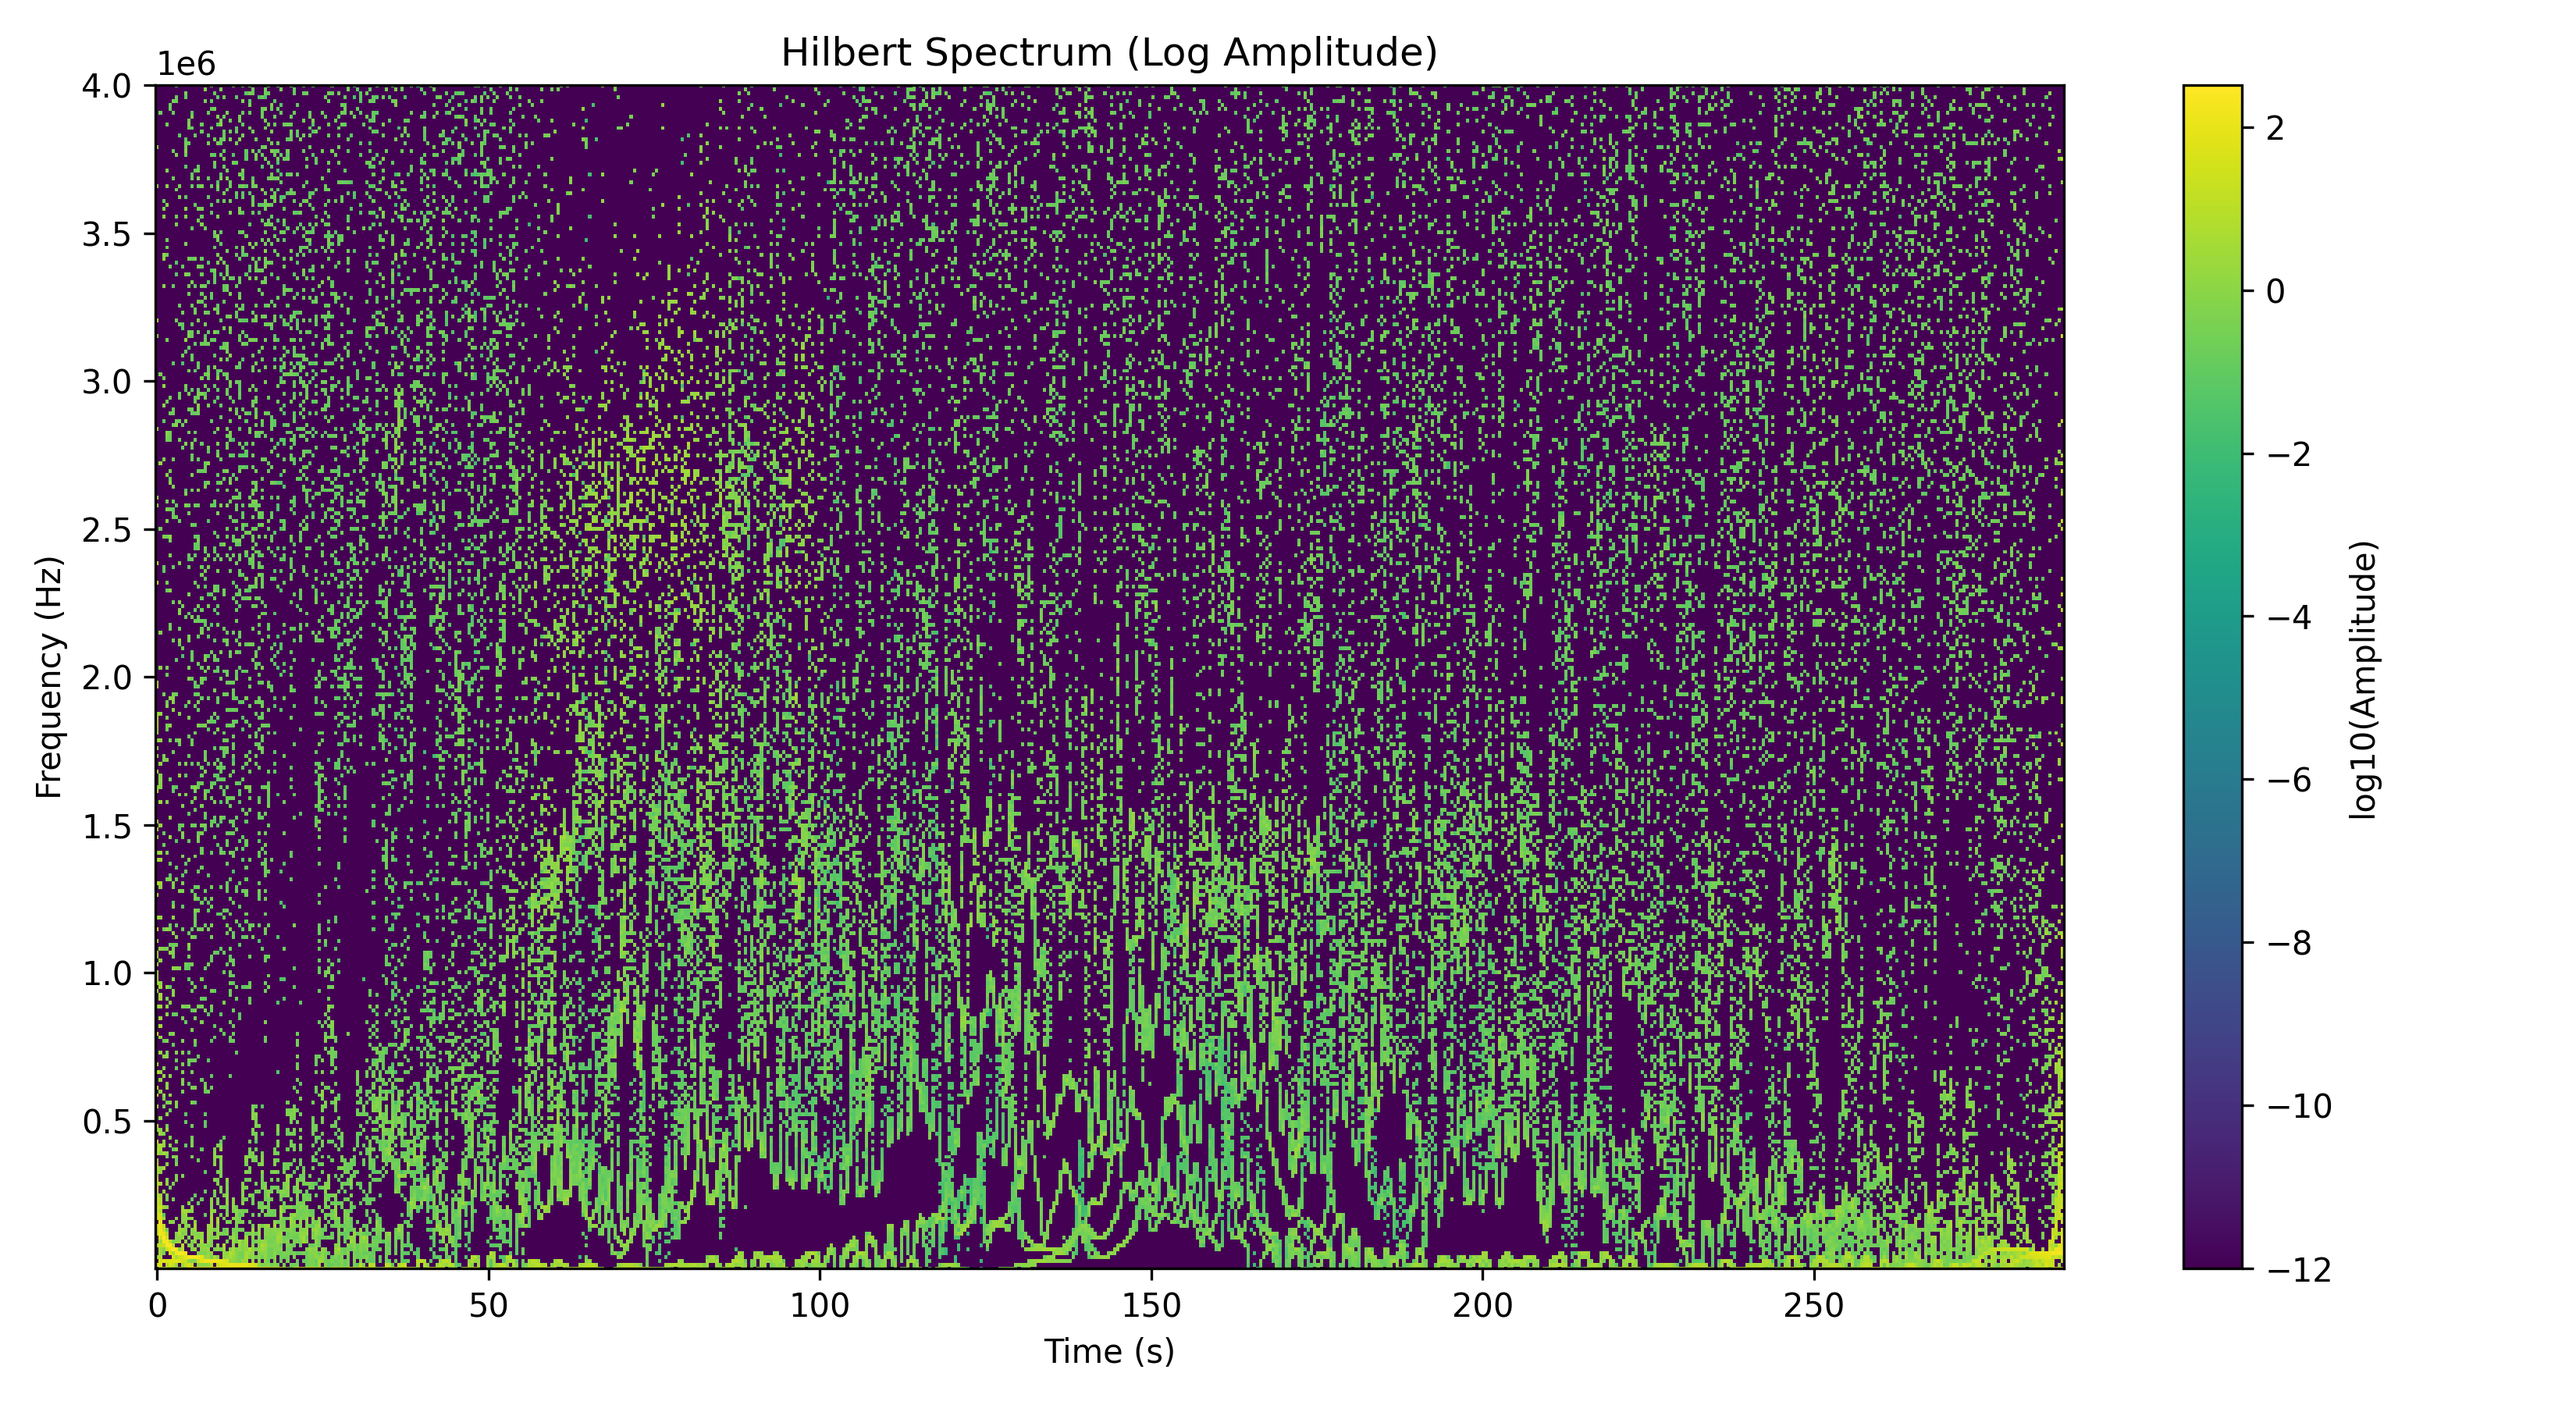
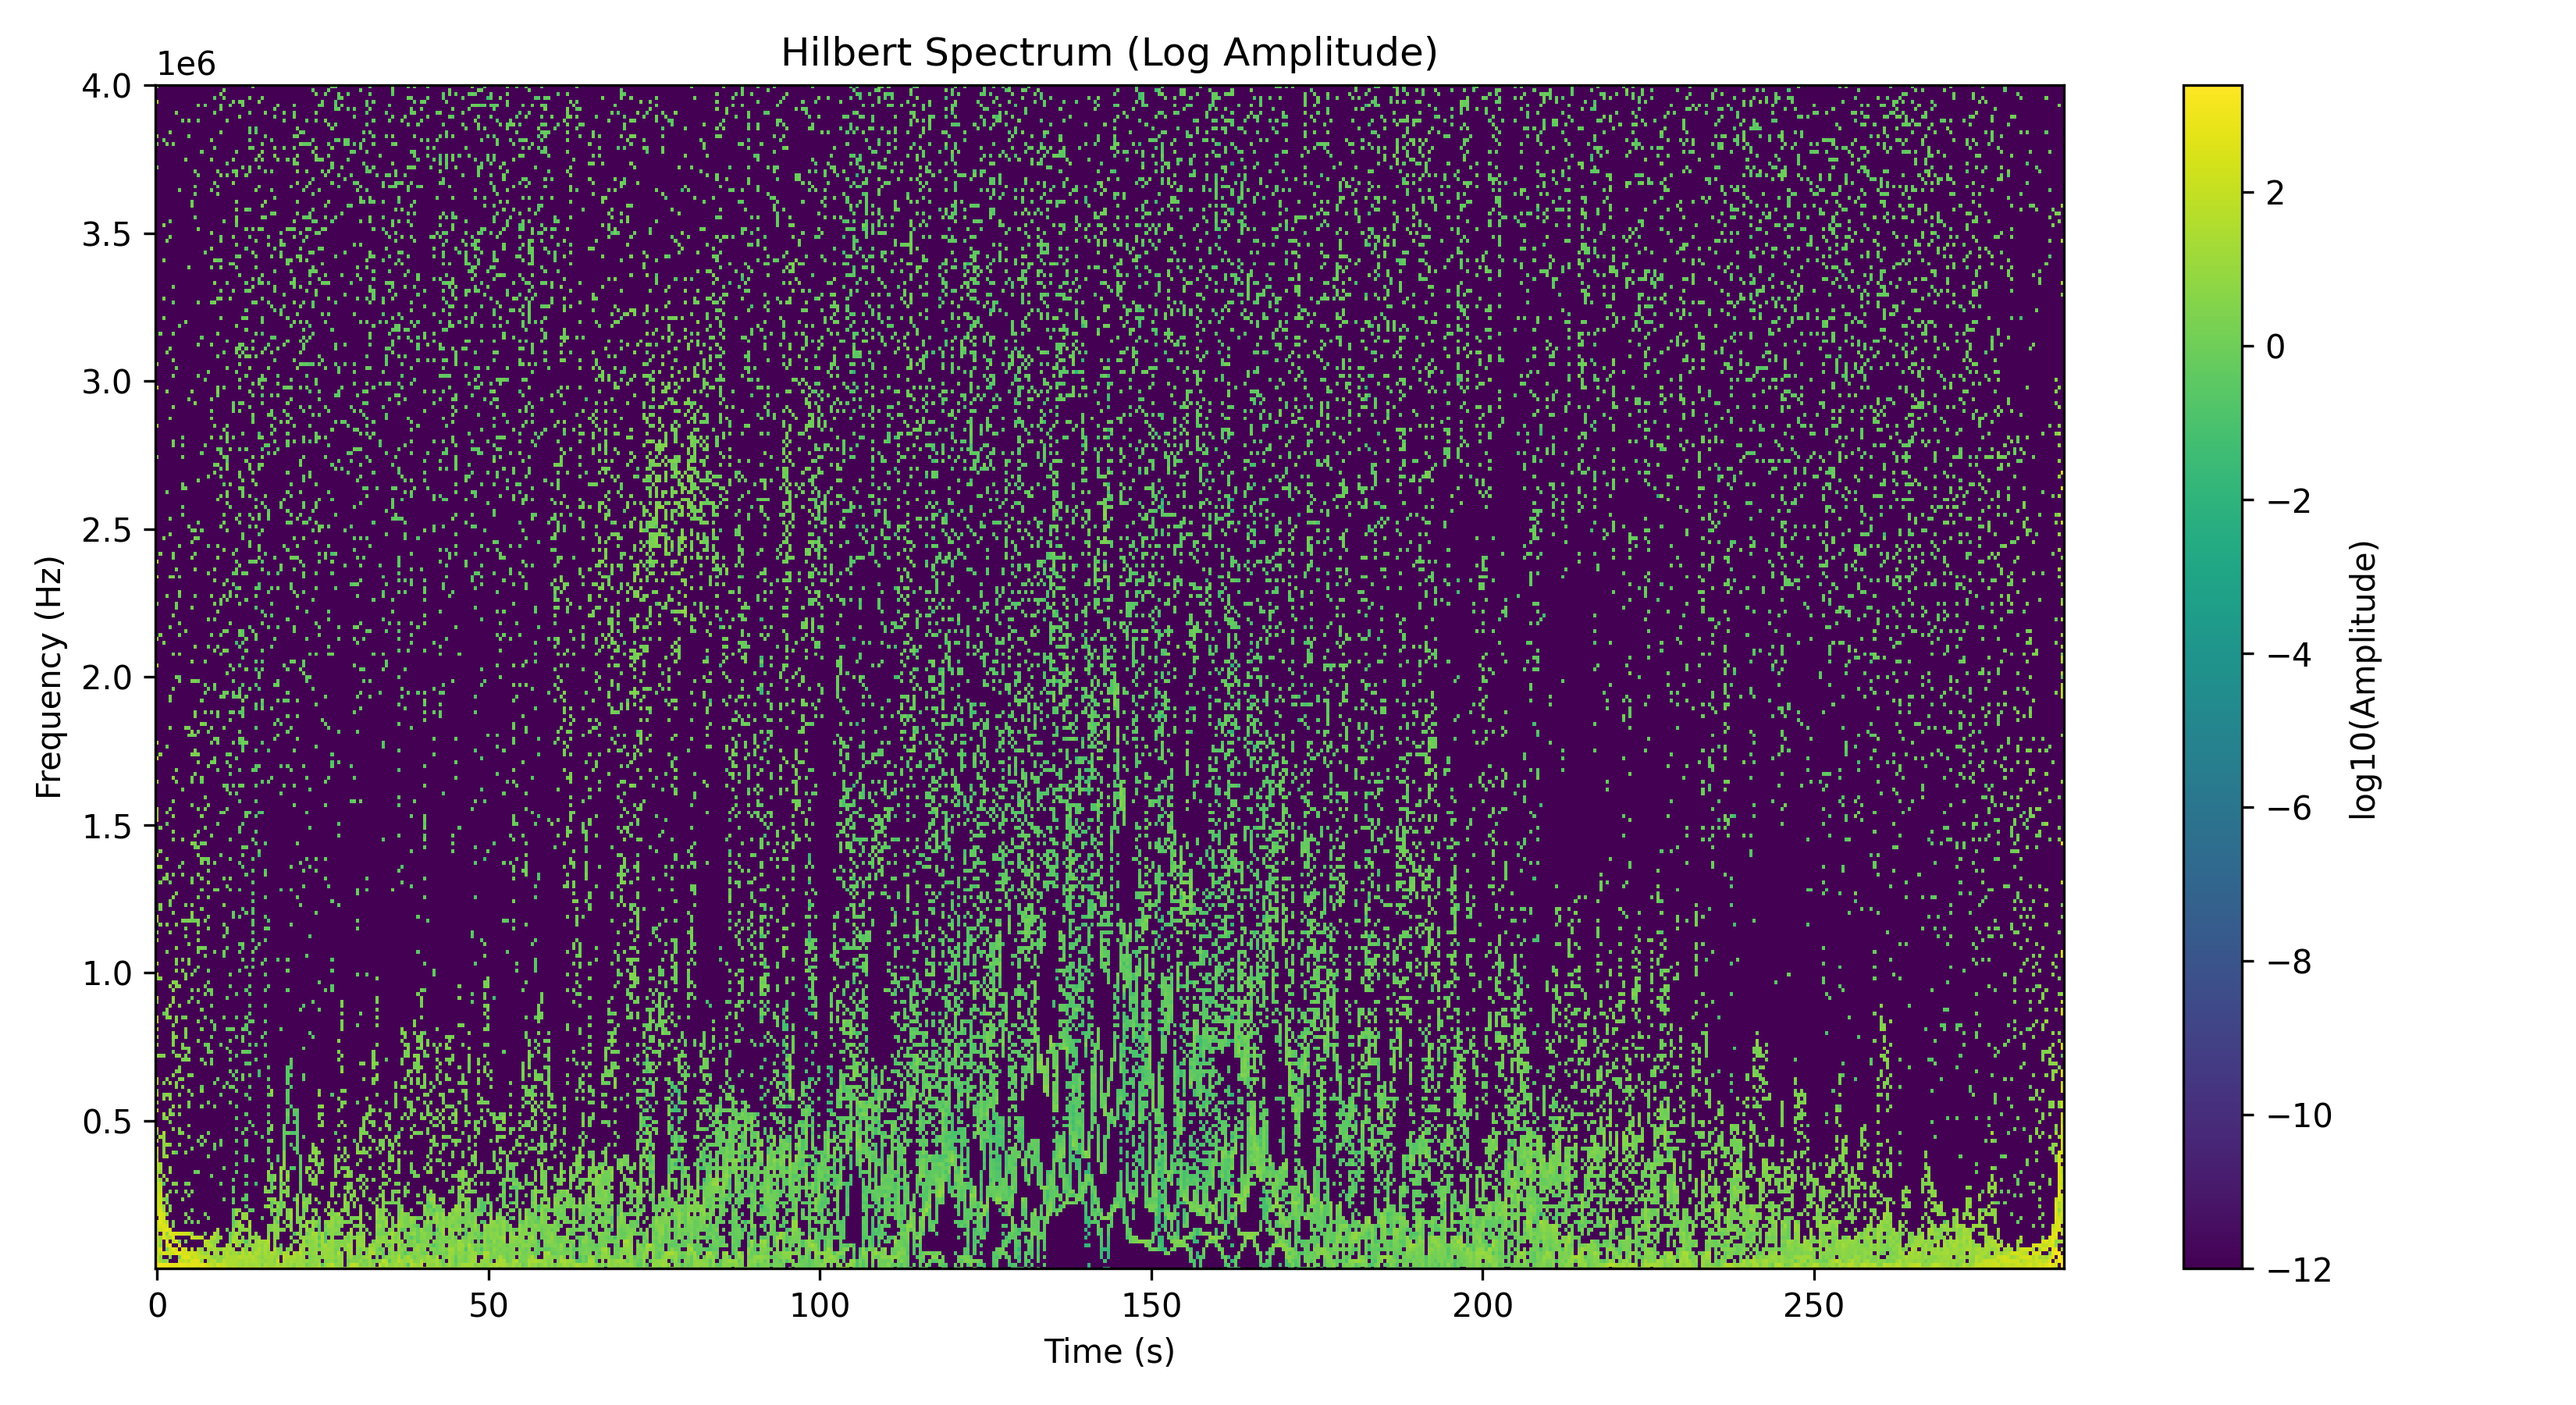
graphs

Changed region(s): [[0.0624, 0.0622, 0.8115, 0.9022], [0.8739, 0.7778, 0.9052, 0.8089], [0.8739, 0.6533, 0.9052, 0.6844]]

diff --git a/Energy_conserv.py b/Energy_conserv.py
@@ -48,7 +48,7 @@ modes_base = ["S2 Propagated signal (nm)", "A1 Propagated signal (nm)",
                   ]
 
 
-noise_level = 0.5
+noise_level = 1.5
  #Noise Level: 0 == 0%, 1.5 == 150%, should not be larger than 1.5
 beta = 6 #Non_Linearity Parameter: Realistic Range 6-12
 
@@ -94,7 +94,9 @@ band_max_harmonic = 2900000
 data_harmonic = preprocess.get_data(dataset_harmonic)
 data_base = preprocess.get_data(dataset_base)
 
-t, signal, data_harmonic = preprocess.create_signal(data_base, data_harmonic, beta, noise_level, "S2 Propagated signal (nm)", "S4 Propagated signal (nm)", modes_base, modes_harmonic )
+t, signal, data_used1 = preprocess.create_signal(data_base, data_harmonic, beta, noise_level, "S2 Propagated signal (nm)", "S4 Propagated signal (nm)", modes_base, modes_harmonic )
+
+t2, signal2, data_used2 = preprocess.create_signal(data_base, data_harmonic, beta, 0, "S2 Propagated signal (nm)", "S4 Propagated signal (nm)", modes_base, modes_harmonic )
 
 
 dt = np.mean(np.diff(t))
@@ -131,29 +133,38 @@ plt.show()
 
 recon_H = Recon_base_H + Recon_harmonic_H
 
-en = ((np.abs(recon_H-signal))**2)/(np.sum(signal**2))
+en = ((np.abs(recon_H-signal2))**2)/(np.sum(signal2**2))
 
 fig, axes = plt.subplots(2, 1, figsize=(10, 4))
 
 # First subplot
-axes[0].plot(t,en)
-axes[0].set_title("Energy Error")
-axes[0].set_xlabel("time [s]")
-axes[0].set_ylabel("Error [-]")
-axes[0].set_xlim(0,140)
-#axes[0].set_ylim(0, 0.0002)
+axes[0].plot(t, en)
+axes[0].set_title("Energy Error", fontsize=20)
+axes[0].set_xlabel("time [s]", fontsize=19)
+axes[0].set_ylabel("Error [-]", fontsize=18)
+axes[0].set_xlim(0, 140)
+# axes[0].set_ylim(0, 0.0002)
+axes[0].tick_params(axis='both', which='major', labelsize=18)
 
 # Second subplot
-axes[1].plot(t, signal)
+axes[1].plot(t, signal2, "-", label="Original Signal without Noise")
 axes[1].plot(t, recon_H, "-")
-axes[1].set_title("Original Signal vs Reconstructed Signal")
-axes[1].set_xlabel("time [s]")
-axes[1].set_ylabel("Amplitude [nm]")
-axes[1].set_xlim(0,140)
-axes[1].set_ylim(-3,3)
-
+axes[1].set_title("Original Signal vs Reconstructed Signal", fontsize=20)
+axes[1].set_xlabel("time [s]", fontsize=19)
+axes[1].set_ylabel("Amplitude [nm]", fontsize=18)
+axes[1].set_xlim(0, 140)
+axes[1].set_ylim(-3, 3)
+axes[1].tick_params(axis='both', which='major', labelsize=18)
 # Adjust layout
 plt.tight_layout()
+
+# Save figure with tight bounding box
+plt.savefig(
+    "HHT-noise-0-overlap.png",
+    dpi=300,
+    bbox_inches="tight",
+    pad_inches=0.05
+)
 
 # Show figure
 plt.show()
